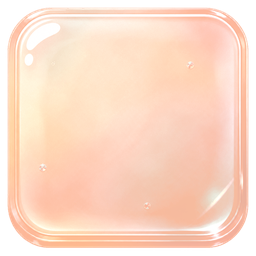
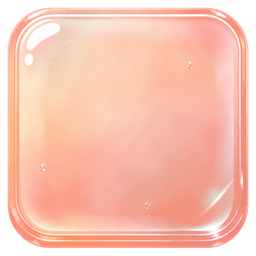
타일 채도를 두 배로 올리고 노랑을 뺀 다섯 색으로 정리
파스텔이 흐렸던 것은 취향 문제가 아니라 천장에 막힌 것이었다. L*89 에서
sRGB 가 허용하는 최대 채도는 분홍 C*16.6, 파랑 C*17.3 이다. 직전 세트가
C*13~14 였으니 이미 거의 한계였고 더 올릴 여지가 없었다.

앞서 "채도를 올리면 숫자 대비가 깨진다"고 적었던 것은 틀렸다. 상대 휘도는
L* 만 따라가므로 채도는 WCAG 대비를 거의 움직이지 않는다. 실제 제약은 L*
하나뿐이고, L*82 에서 4.80:1 로 AA 를 통과한다(L*78 은 4.28:1 로 탈락).
그래서 L*89 -> L*82 로 내리고 채도를 C*26 으로 올렸다. 직전의 두 배다.

노랑은 뺐다. 이건 구조적인 문제다. 노랑이 레몬으로 보이려면 L*90 부근이어야
하는데 나머지 색이 채도를 얻으려면 L*82 여야 한다. L*82 의 노랑은 머스터드다.
한 팔레트가 하나의 명도를 공유해야 세트로 읽히므로 명도가 공통 제약이고
노랑이 그 안에 들어오지 못한다. 탁한 여섯 번째보다 잘 벌어진 다섯이 낫다.
빨-주-초-파-보 다섯 칸이 되고 TILE_TONE_COUNT 도 5 로 내린다.

색상각은 이론값이 아니라 도달 가능한 값에서 골랐다. 마스터를 통과시키면
색상환이 불균등하게 압축되고 260~308 구간은 아예 만들 수 없어서, 빌드가
출력하는 표를 보고 정했다. 결과 6/45/162/222/308, 최소 간격 40도. 직전
여섯 색 세트는 peach 와 lemon 사이가 32도로 가장 좁았다.

검증: npm test 71/71, npm run build, 4개 해상도 x 4개 스테이지 이상 없음.

Claude-Session: https://claude.ai/code/session_018PNvCciUPJyfMsFQNjkdTe

diff --git a/css/styles.css b/css/styles.css
@@ -1690,10 +1690,9 @@ img {
    its position gave it. */
 .tile.tone-1 { --tile-art: url("../assets/ui/tiles-syrup-v5/tile-blush.webp"); }
 .tile.tone-2 { --tile-art: url("../assets/ui/tiles-syrup-v5/tile-peach.webp"); }
-.tile.tone-3 { --tile-art: url("../assets/ui/tiles-syrup-v5/tile-lemon.webp"); }
-.tile.tone-4 { --tile-art: url("../assets/ui/tiles-syrup-v5/tile-mint.webp"); }
-.tile.tone-5 { --tile-art: url("../assets/ui/tiles-syrup-v5/tile-aqua.webp"); }
-.tile.tone-6 { --tile-art: url("../assets/ui/tiles-syrup-v5/tile-lilac.webp"); }
+.tile.tone-3 { --tile-art: url("../assets/ui/tiles-syrup-v5/tile-mint.webp"); }
+.tile.tone-4 { --tile-art: url("../assets/ui/tiles-syrup-v5/tile-aqua.webp"); }
+.tile.tone-5 { --tile-art: url("../assets/ui/tiles-syrup-v5/tile-lilac.webp"); }
 .tile[class*="tone-"] { background-image: var(--tile-art); }
 
 /* A-1: 숫자 색을 잉크 한 색으로 통일.

diff --git a/js/ui.js b/js/ui.js
@@ -26,7 +26,7 @@ const clamp = (value, min, max) => Math.min(Math.max(value, min), max);
 // life of the board — clearing a rectangle empties cells, it does not move the
 // survivors — so the board reads as one painted surface instead of confetti
 // that reshuffles on every match.
-const TILE_TONE_COUNT = 6;
+const TILE_TONE_COUNT = 5;
 
 // Neighbours land on the same or an adjacent hue, so the board sweeps across
 // the palette once instead of alternating hard between cells.

diff --git a/js/preload.js b/js/preload.js
@@ -12,7 +12,6 @@ const PLAY_CRITICAL_ASSETS = Object.freeze([
   'assets/ui/button-pause.webp',
   'assets/ui/tiles-syrup-v5/tile-blush.webp',
   'assets/ui/tiles-syrup-v5/tile-peach.webp',
-  'assets/ui/tiles-syrup-v5/tile-lemon.webp',
   'assets/ui/tiles-syrup-v5/tile-mint.webp',
   'assets/ui/tiles-syrup-v5/tile-aqua.webp',
   'assets/ui/tiles-syrup-v5/tile-lilac.webp',

diff --git a/tools/build-tiles-v5.py b/tools/build-tiles-v5.py
@@ -6,16 +6,15 @@ strength. Because those colours did not share a saturation, the finished tiles
 landed anywhere from 7.9% to 82.3% — half the board read as colour and half
 read as grime, which is what made the board look stained rather than pretty.
 
-v5 grades the same master toward the same approved palette and then normalises
-what the tile actually measures, so the set is even by construction rather than
-by luck. Two corrections sit on top of that: the warm pair moves apart, because
-peach and lemon were eight degrees from each other, and chroma varies slightly
-per hue, because equal chroma does not look equal.
+v5 grades the same master and then normalises what the tile actually measures,
+so the set is even by construction rather than by luck. It also drops to five
+hues: yellow cannot survive the lightness the rest of the palette needs, and a
+muddy sixth colour costs more than the gap it fills.
 
 The ruler is L*C*h, not HLS. Normalising on HLS saturation produced a set that
 measured uniform and looked fluorescent: at identical HLS numbers, yellow and
 green land far lighter and far more chromatic than blue or pink. See the notes
-on CONCEPT_PALETTE and TARGET_LIGHTNESS_LAB for the numbers.
+on PALETTE and TARGET_LIGHTNESS_LAB for the numbers.
 
 Colour carries no game meaning — js/ui.js assigns it from the cell's position,
 never its value — so the palette only has to be calm and even.
@@ -32,69 +31,62 @@ ROOT = Path(__file__).resolve().parents[1]
 SOURCE = ROOT / "assets/source/tile-syrup-v4-alpha.png"
 OUT = ROOT / "assets/ui/tiles-syrup-v5"
 
-# The approved concept-board palette, carried over from
-# tools/build-syrup-tile-assets.py. These are the colours the project already
-# chose and liked; v4's failure was never the palette, it was that a fixed blend
-# strength rendered them at 7.9%-82.3% saturation so half the board looked like
-# grime. Keeping the hues and fixing only the rendering is the whole change.
+# Five hues, spread as far apart as the tint can actually reach.
 #
-# One correction. Measured on the wheel the original set is not a rainbow:
+# There is no yellow, and that is structural rather than a matter of taste.
 #
-#   blush #FF7BA8  340°     peach #FFB766   32°
-#   lemon #FFDFA6   38°  <- six degrees from peach, so it read as a second
-#   mint  #7FD6C2  166°     orange and the set had no yellow at all
-#   aqua  #8DB7FF  218°     lilac #C9B0FF  259°
+# A yellow only looks like lemon near L* 90; drop it to the lightness the rest
+# of the set needs and it is mustard, because dark yellow is what mustard is.
+# The rest of the set needs L* 82, since sRGB simply has no room above it:
 #
-# Measured in CIELAB the two warm tiles really were on top of each other, so
-# both move; the cool four are untouched. Rendered hues, h*:
+#   maximum C* in gamut      L* 89    L* 86    L* 82
+#     blush  h 6              16.6     21.3     27.9
+#     aqua   h 222            17.3     21.9     28.1
 #
-#   peach #FFB766 -> 74    lemon #FFDFA6 -> 82    eight degrees apart
-#   peach #FFA678 -> 59    lemon #FFE178 -> 91    thirty-two, and both clean
+# Pink and blue cap at C* 16-17 at L* 89 — that is a hard ceiling, not a
+# conservative choice, and it is why the earlier pastel set looked washed out.
+# Holding every tile at one lightness is what makes the set read as a family,
+# so lightness is the shared constraint and yellow is what does not fit inside
+# it. Five well-separated hues beat six with a muddy one.
 #
-# An earlier pass aimed lemon at #E8EE72, which does separate (h* 104) but lands
-# in yellow-green: at pastel chroma that reads as khaki, not as lemon. Yellow
-# has very little room between "olive" and "acid", and h* 91 is inside it.
-#
-# The second number is each tile's chroma, and it is deliberately not constant.
-# Equal C* across the wheel does not look equal: yellow and orange go beige and
-# dirty at the chroma that keeps blue and violet from turning garish. The warm
-# tiles carry a few points more so the whole set reads as one pastel family.
-#
-# Targets are aimed, not final — the master has a warm cast, so a tile renders a
-# little below where it is aimed. The build prints both, so re-aim against that
-# table rather than against the hex.
-CONCEPT_PALETTE = {
-    "blush": ((255, 123, 168), 15.0),
-    "peach": ((255, 166, 120), 19.0),
-    "lemon": ((255, 225, 120), 19.0),
-    "mint": ((127, 214, 194), 16.0),
-    "aqua": ((141, 183, 255), 15.0),
-    "lilac": ((201, 176, 255), 15.0),
+# Hues are picked from what the tint can actually reach. Grading through the
+# master compresses the wheel unevenly and 260-308 is not reachable at all, so
+# these targets are chosen off the build's own printed table, not off theory.
+# Rendered: 6, 45, 162, 222, 308 — closest pair 40 degrees apart, where the
+# previous six-colour set had a 32-degree pinch between peach and lemon.
+PALETTE = {
+    "blush": (255, 122, 173),
+    "peach": (255, 134, 104),
+    "mint": (0, 195, 132),
+    "aqua": (0, 191, 255),
+    "lilac": (172, 157, 255),
 }
+
+# One chroma for all five. The earlier set varied it per hue to keep yellow and
+# orange from going beige; without a yellow in the set that correction is no
+# longer needed, and every hue here reaches 26 inside the gamut.
+TARGET_CHROMA = 26.0
 
 # Measured on the tile face (centre 40%) in CIELAB, not HLS.
 #
-# HLS was the wrong ruler. Holding all six at 60% HLS saturation produced a set
-# whose perceived chroma ranged 13.9 (peach) to 24.5 (lilac) and whose perceived
-# lightness ranged L* 83.5 to 93.2. Yellow and green land far lighter and far
-# more chromatic than blue or pink at identical HLS numbers, so lemon and mint
-# read as fluorescent while the rest read as muted — a set that measured uniform
-# and looked nothing of the sort.
+# HLS was the wrong ruler. Holding every tile at 60% HLS saturation produced a
+# set whose perceived chroma ranged 13.9 to 24.5 and whose perceived lightness
+# ranged L* 83.5 to 93.2. At identical HLS numbers yellow and green land far
+# lighter and far more chromatic than blue or pink, so those two read as
+# fluorescent while the rest read as muted — a set that measured uniform and
+# looked nothing of the sort. L*C*h is perceptually even, so equal numbers here
+# mean equal to the eye.
 #
-# L*C*h is perceptually even, so equal numbers here mean equal to the eye.
+# L* 82 is the floor, and the numerals set it. Chroma barely moves WCAG
+# contrast — relative luminance follows L* alone — so this is the only dial that
+# trades legibility for colour:
 #
-# Chroma is set per tile in CONCEPT_PALETTE above; BASE_CHROMA is the floor the
-# cool hues sit on. L* is shared by all six and is bounded below by the
-# numerals — the ink is #425374 and the tile has to stay light enough beneath it
-# to clear WCAG AA (4.5:1):
+#   L* 89  ->  5.82:1      L* 82  ->  4.80:1
+#   L* 86  ->  5.36:1      L* 78  ->  4.28:1   fails AA
 #
-#   L* 90  ->  5.79:1      L* 86  ->  5.24:1
-#   L* 89  ->  5.66:1      L* 80  ->  4.48:1   fails AA
-#
-# So the board cannot get contrast from deeper tiles. It would have to come
-# from pushing the painted chrome behind the board back instead.
-BASE_CHROMA = 15.0
-TARGET_LIGHTNESS_LAB = 89.0
+# Sitting at 82 buys roughly double the chroma of 89 while still clearing AA
+# against the #425374 ink.
+TARGET_LIGHTNESS_LAB = 82.0
 
 
 def normalized_master() -> Image.Image:
@@ -186,7 +178,7 @@ def measure(image: Image.Image) -> tuple[float, float, float]:
     return lightness, math.hypot(a, b), math.degrees(math.atan2(b, a)) % 360
 
 
-def normalize(image: Image.Image, target_chroma: float = BASE_CHROMA) -> Image.Image:
+def normalize(image: Image.Image, target_chroma: float = TARGET_CHROMA) -> Image.Image:
     """Scale saturation and shift lightness so the face lands on the targets.
 
     Blend strength alone cannot do this: the master carries chroma of its own,
@@ -225,7 +217,7 @@ GRADE_STRENGTH = 0.85
 
 
 def grade(master: Image.Image, target_rgb: tuple[int, int, int],
-          chroma: float = BASE_CHROMA) -> Image.Image:
+          chroma: float = TARGET_CHROMA) -> Image.Image:
     return normalize(tint_preserving_iridescence(master, target_rgb, GRADE_STRENGTH), chroma)
 
 
@@ -235,8 +227,8 @@ def main() -> None:
 
     print(f"{'tile':8} {'target':9} {'L*':>7} {'C*':>7} {'h':>7}")
     print("-" * 42)
-    for name, (target, chroma) in CONCEPT_PALETTE.items():
-        compact = grade(master, target, chroma).resize((256, 256), Image.Resampling.LANCZOS)
+    for name, target in PALETTE.items():
+        compact = grade(master, target).resize((256, 256), Image.Resampling.LANCZOS)
         compact.save(OUT / f"tile-{name}.png", optimize=True)
         compact.save(OUT / f"tile-{name}.webp", format="WEBP", lossless=True, method=6)
         lightness, chroma, hue = measure(compact)

diff --git a/ASSET_USAGE.md b/ASSET_USAGE.md
@@ -25,12 +25,11 @@
 | `assets/ui/logo.webp` | `oing-toss-assets-v1/assets/ui/logo.webp` | 홈 로고 | 142–212px |
 | `assets/ui/button-settings.webp` | `oing-toss-assets-v1/assets/ui/button-settings.webp` | 홈 설정 | 39–44px |
 | `assets/ui/button-pause.webp` | `oing-toss-assets-v1/assets/ui/button-pause.webp` | 플레이 일시정지 | 43–48px |
-| `assets/ui/tiles-syrup-v5/tile-blush.webp` | 컨셉보드 승인색 `#FF7BA8`를 `tools/build-tiles-v5.py`로 마스터에 재계조 | 보드 타일 L*89 C*14 h8° | 256×256 원본, 셀 약 44–59px |
-| `assets/ui/tiles-syrup-v5/tile-peach.webp` | 컨셉보드 승인색 `#FFA678`를 `tools/build-tiles-v5.py`로 마스터에 재계조 | 보드 타일 L*89 C*19 h59° | 256×256 원본, 셀 약 44–59px |
-| `assets/ui/tiles-syrup-v5/tile-lemon.webp` | 컨셉보드 승인색 `#FFE178`를 `tools/build-tiles-v5.py`로 마스터에 재계조 | 보드 타일 L*89 C*19 h91° | 256×256 원본, 셀 약 44–59px |
-| `assets/ui/tiles-syrup-v5/tile-mint.webp` | 컨셉보드 승인색 `#7FD6C2`를 `tools/build-tiles-v5.py`로 마스터에 재계조 | 보드 타일 L*89 C*16 h158° | 256×256 원본, 셀 약 44–59px |
-| `assets/ui/tiles-syrup-v5/tile-aqua.webp` | 컨셉보드 승인색 `#8DB7FF`를 `tools/build-tiles-v5.py`로 마스터에 재계조 | 보드 타일 L*89 C*13 h273° | 256×256 원본, 셀 약 44–59px |
-| `assets/ui/tiles-syrup-v5/tile-lilac.webp` | 컨셉보드 승인색 `#C9B0FF`를 `tools/build-tiles-v5.py`로 마스터에 재계조 | 보드 타일 L*89 C*15 h318° | 256×256 원본, 셀 약 44–59px |
+| `assets/ui/tiles-syrup-v5/tile-blush.webp` | `#FF7AAD`를 `tools/build-tiles-v5.py`로 마스터에 재계조 | 보드 타일 L*82 C*26 h6° | 256×256 원본, 셀 약 44–59px |
+| `assets/ui/tiles-syrup-v5/tile-peach.webp` | `#FF8668`를 `tools/build-tiles-v5.py`로 마스터에 재계조 | 보드 타일 L*82 C*26 h45° | 256×256 원본, 셀 약 44–59px |
+| `assets/ui/tiles-syrup-v5/tile-mint.webp` | `#00C384`를 `tools/build-tiles-v5.py`로 마스터에 재계조 | 보드 타일 L*82 C*26 h162° | 256×256 원본, 셀 약 44–59px |
+| `assets/ui/tiles-syrup-v5/tile-aqua.webp` | `#00BFFF`를 `tools/build-tiles-v5.py`로 마스터에 재계조 | 보드 타일 L*82 C*26 h222° | 256×256 원본, 셀 약 44–59px |
+| `assets/ui/tiles-syrup-v5/tile-lilac.webp` | `#AC9DFF`를 `tools/build-tiles-v5.py`로 마스터에 재계조 | 보드 타일 L*82 C*26 h308° | 256×256 원본, 셀 약 44–59px |
 | `assets/icons/navigation/trophy.webp` | `oing-toss-assets-v1/assets/icons/trophy.webp` | 홈·결과 랭킹 | 27px |
 | `assets/icons/navigation/home.webp` | `oing-toss-assets-v1/assets/icons/home.webp` | 결과 홈으로 | 24px |
 | `assets/icons/hud/score.webp` | `oing-toss-assets-v1/assets/icons/coin.webp` | 점수 HUD | 22px |
@@ -64,7 +63,7 @@
 | `assets/ui/tile-disabled.webp` | 보드에 disabled 타일 상태가 아직 없다. |
 | `assets/ui/tile-{normal,selected,success,hint,empty}.webp` | 독립 시럽 타일 세트로 교체해 보존만 한다. |
 | `assets/ui/tiles-v3/` 전체 | 이전 밀키 글라스 후보 세트다. 현재 게임은 `tiles-syrup-v5` 6종을 사용한다. |
-| `assets/ui/tiles-syrup-v4/` 전체 | 채도가 7.9%~82.3%로 흩어져 절반은 색, 절반은 때처럼 보였고 blush·peach·lemon이 33° 안에 몰려 있었다. `tiles-syrup-v5`가 같은 컨셉보드 색을 같은 마스터에 다시 입히되 CIELAB에서 L*89로 통일하고 채도를 파스텔 수준(C*13~19)으로 낮춰 대체한다. HLS 채도로 맞추면 노랑·초록이 형광처럼 뜨기 때문에 지각 색공간에서 잰다. 원본만 보존한다. |
+| `assets/ui/tiles-syrup-v4/` 전체 | 채도가 7.9%~82.3%로 흩어져 절반은 색, 절반은 때처럼 보였고 blush·peach·lemon이 33° 안에 몰려 있었다. `tiles-syrup-v5` 5종이 대체한다. 같은 마스터를 CIELAB에서 L*82 C*26으로 통일해 재계조하며, HLS 채도로 맞추면 노랑·초록이 형광처럼 뜨기 때문에 지각 색공간에서 잰다. 노랑은 뺐다. 예쁜 노랑은 L*90 부근이어야 하는데 나머지 색이 채도를 얻으려면 L*82여야 해서 한 팔레트에 공존할 수 없고, L*82의 노랑은 머스터드가 된다. 원본만 보존한다. |
 | `assets/ui/item-buttons-v1/` 전체 | 긴 가로형 셸이라 4개 아이템을 한 줄에 배치하면 보드 공간을 압박한다. 정사각 시럽 슬롯으로 교체해 원본만 보존한다. |
 | `assets/decor/cloud.webp` | 배경 자체에 구름이 있어 중복 장식을 피했다. |
 | `assets/decor/flower.webp` | 배경 하단 꽃밭과 중복되어 사용하지 않았다. |
